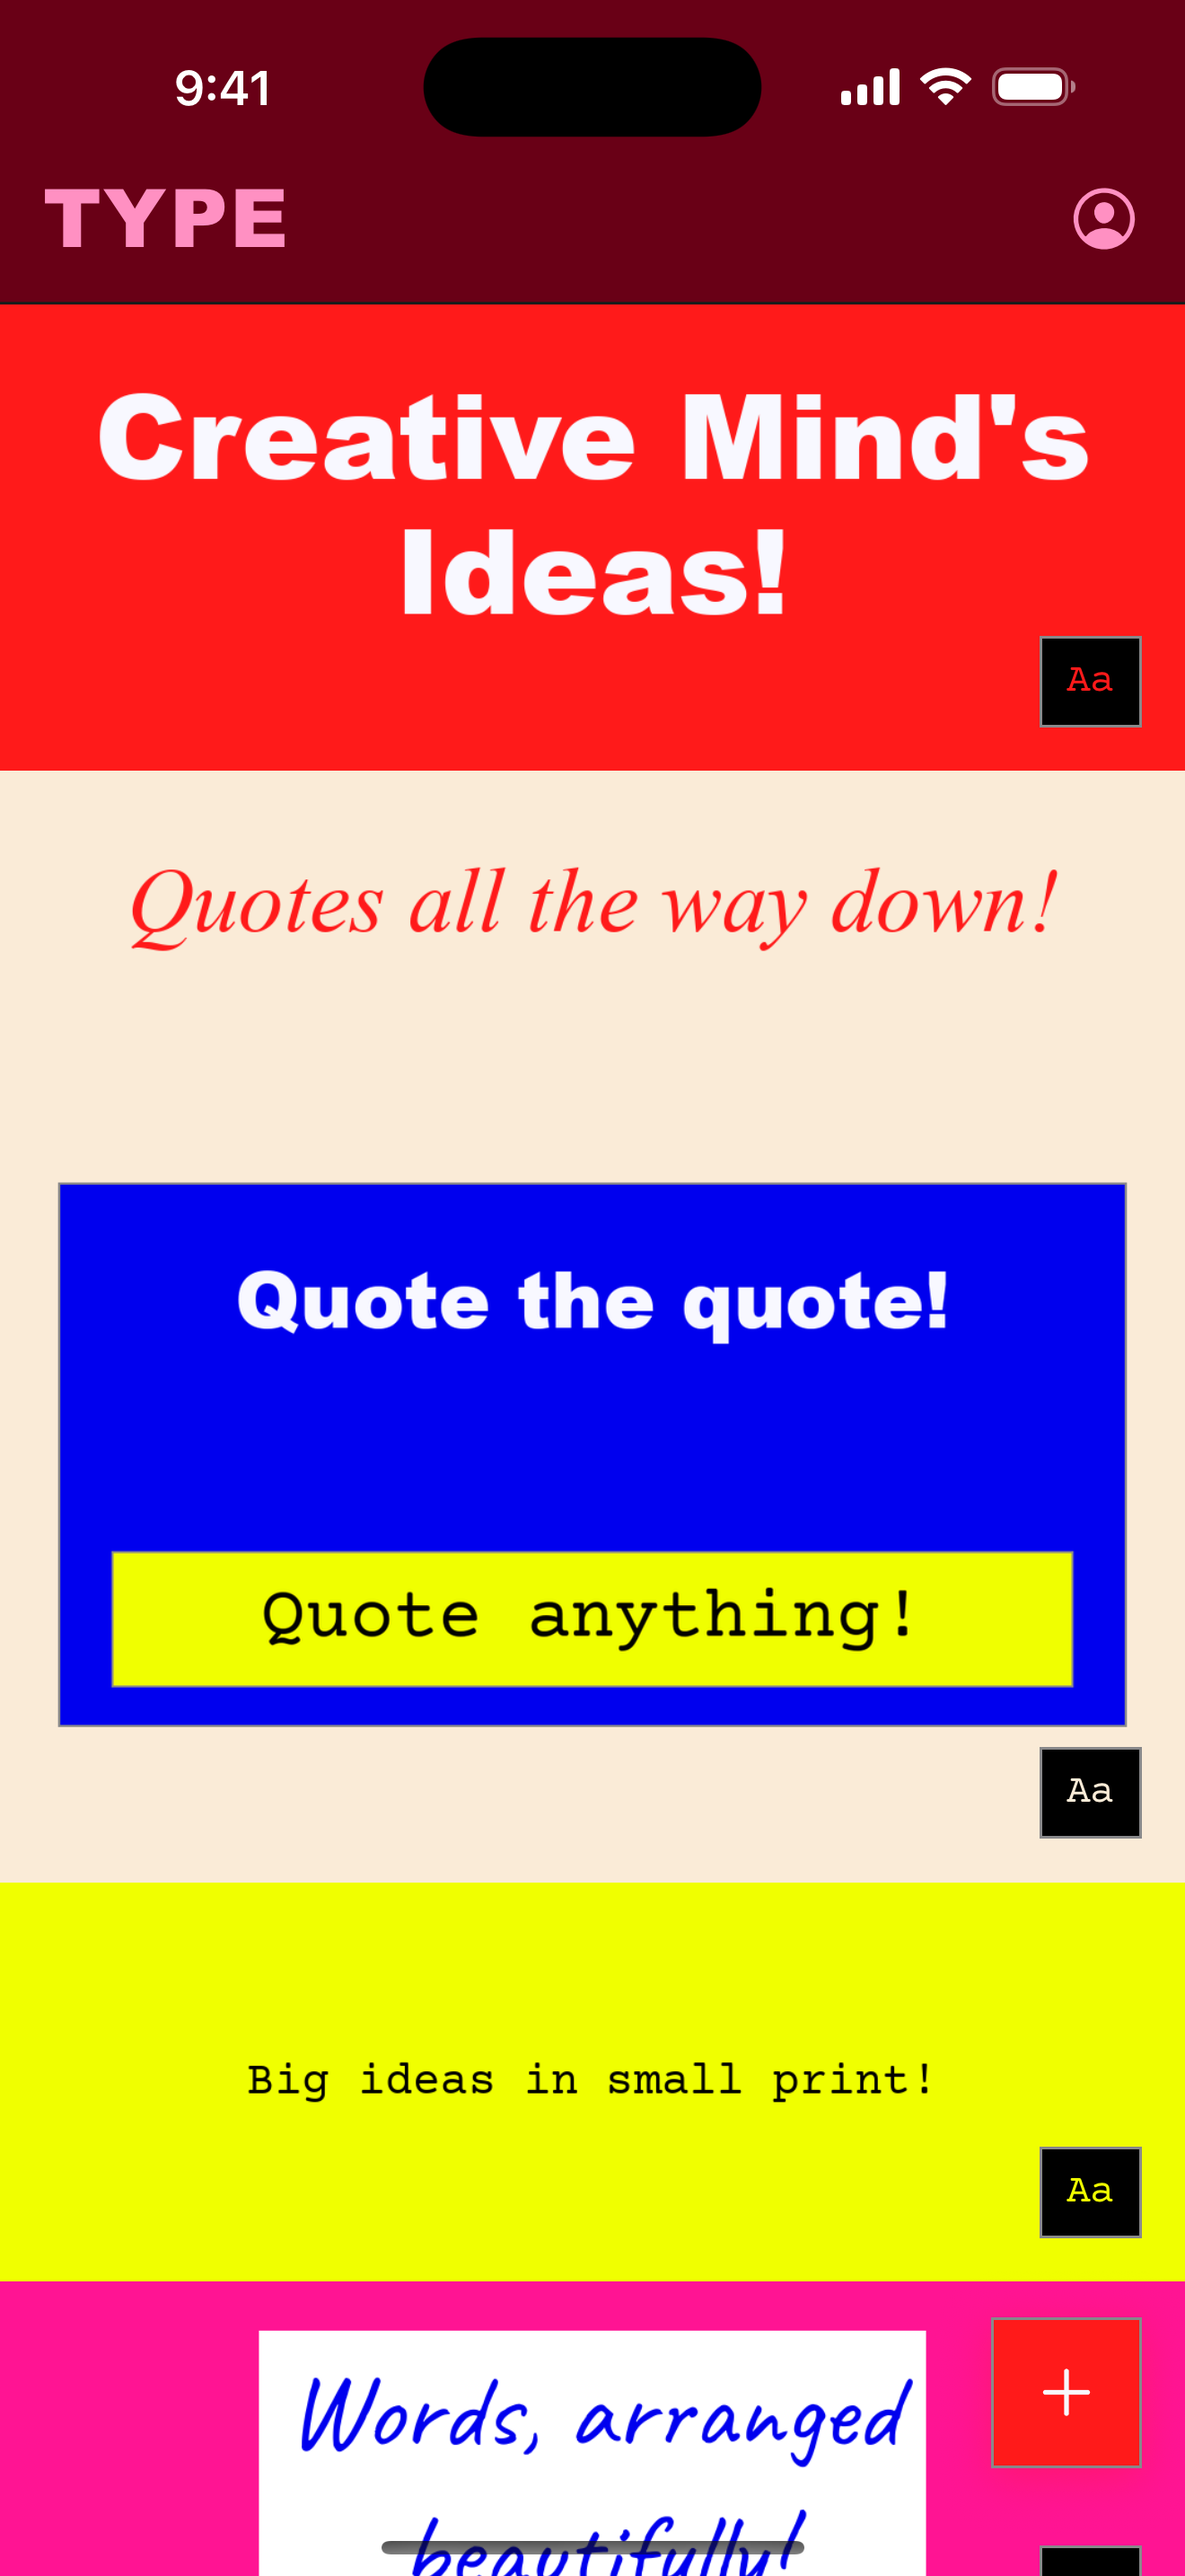
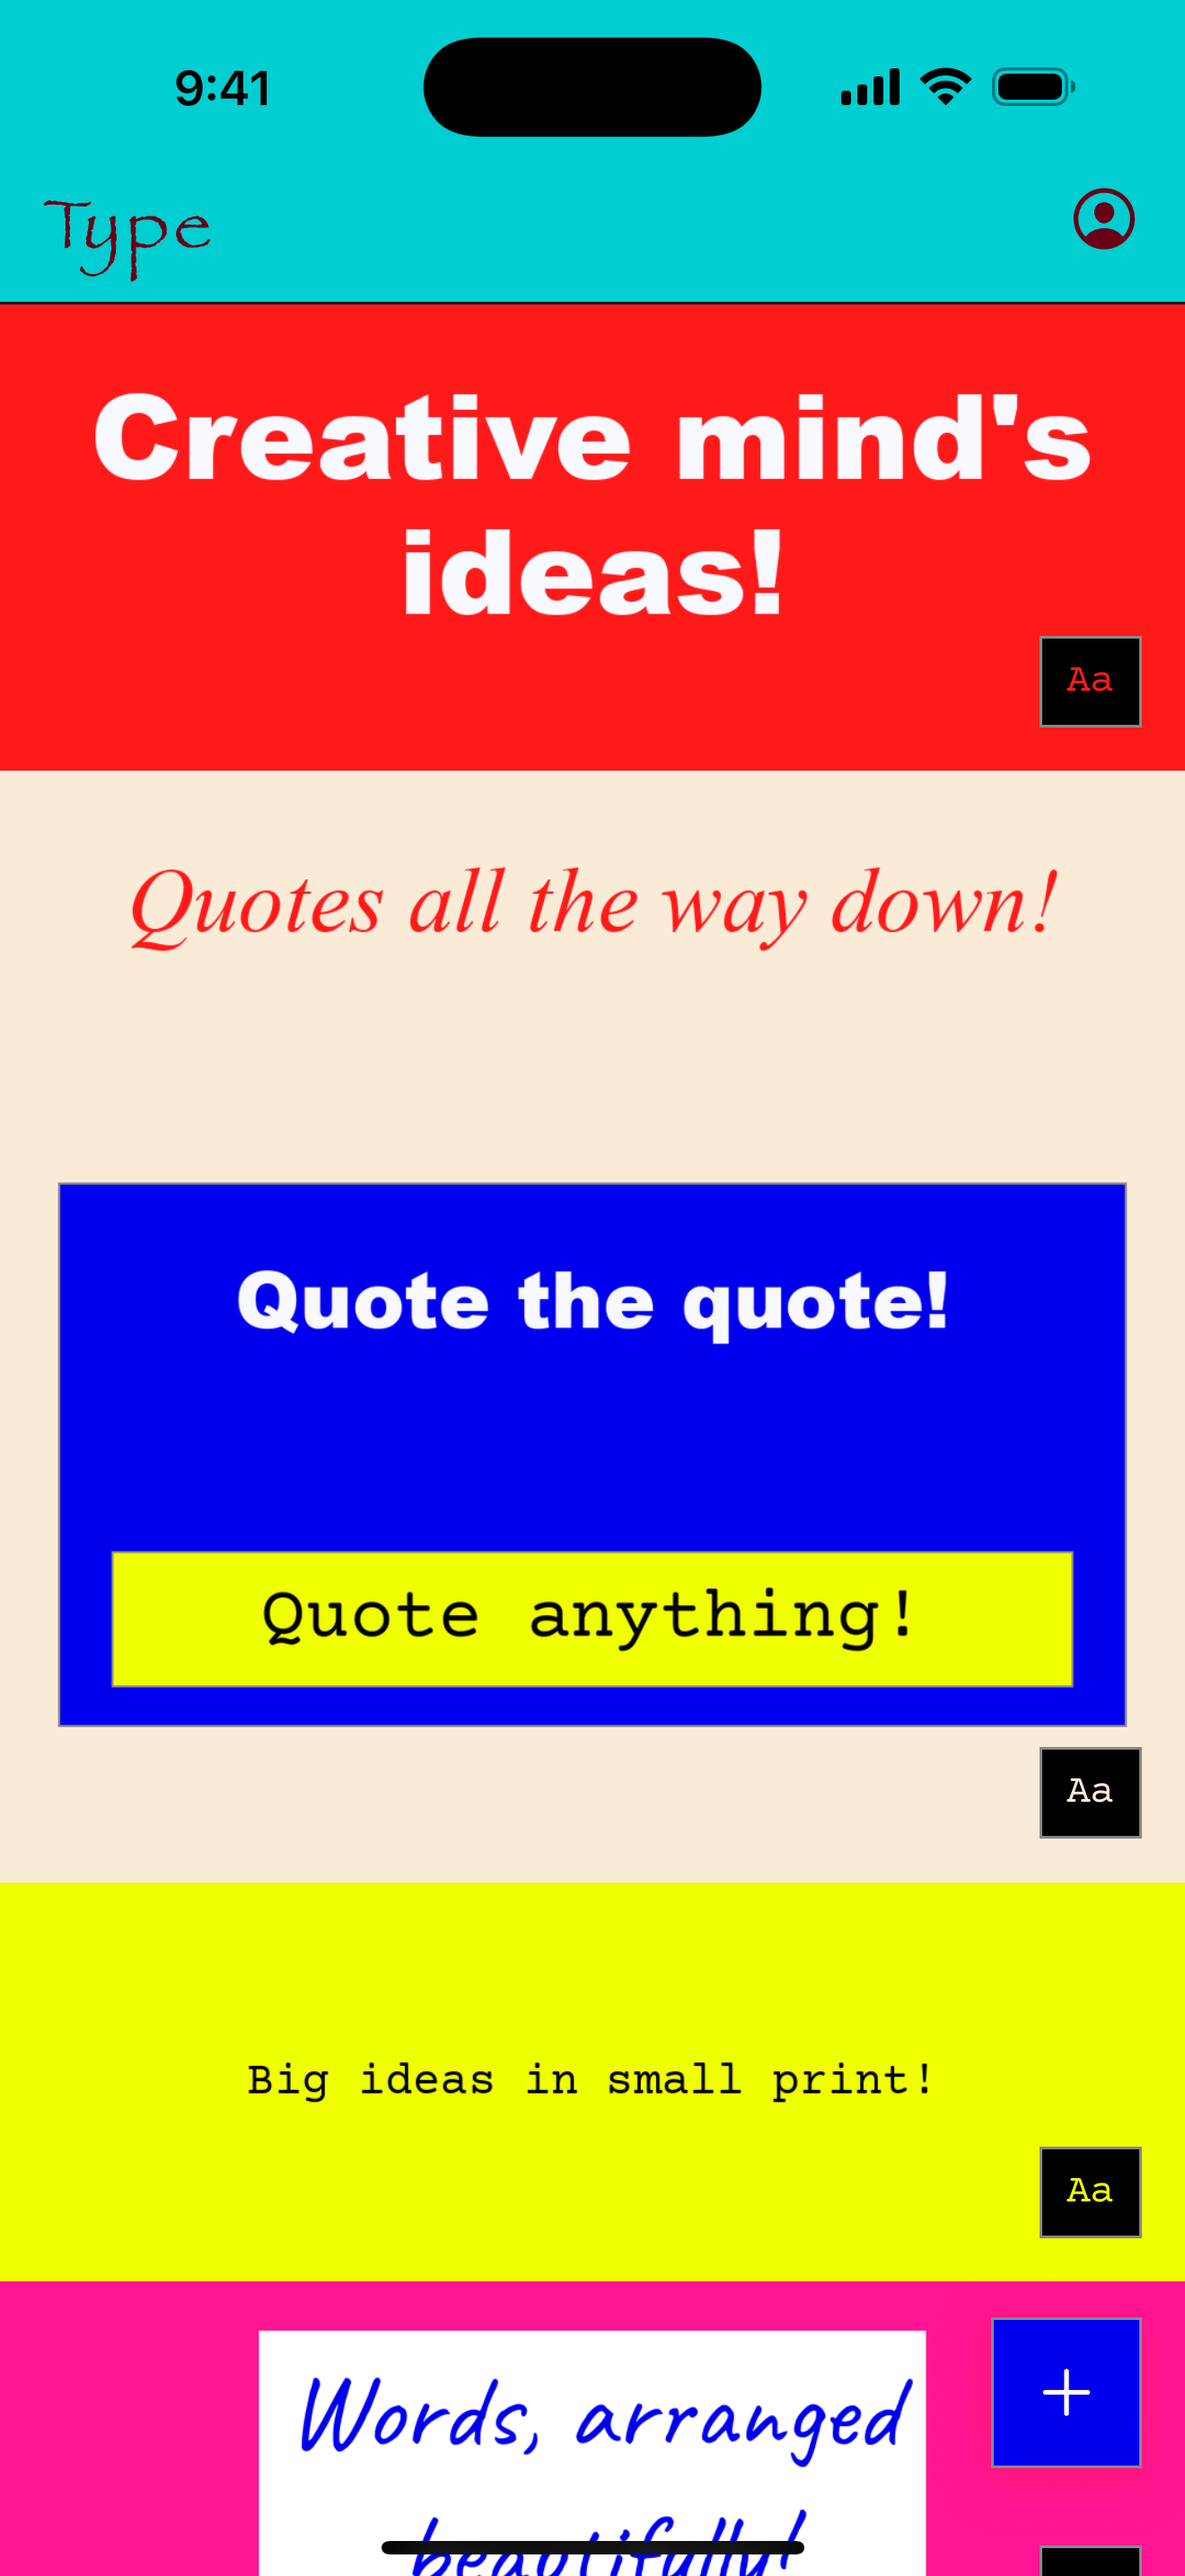
Screenshot copy: "Creative mind's ideas!" in sentence case

diff --git a/frontend/scripts/seed-store.ts b/frontend/scripts/seed-store.ts
@@ -87,7 +87,7 @@ async function main() {
   await quote('seed-maru', b, '#FAEBD7',
     el('Quotes all the way down!', { fontFamily: 'crimson-text', fontSize: 34, color: '#FF1A1A', italic: true }));
   await post('seed-ines', snapshot('#FF1A1A', [
-    el("Creative Mind's\nIdeas!", { fontFamily: 'arial-black', fontSize: 44, color: '#F8F8FF', y: 470 }),
+    el("Creative mind's\nideas!", { fontFamily: 'arial-black', fontSize: 44, color: '#F8F8FF', y: 470 }),
   ]));
   console.log('seeded 9 posts');
 }
